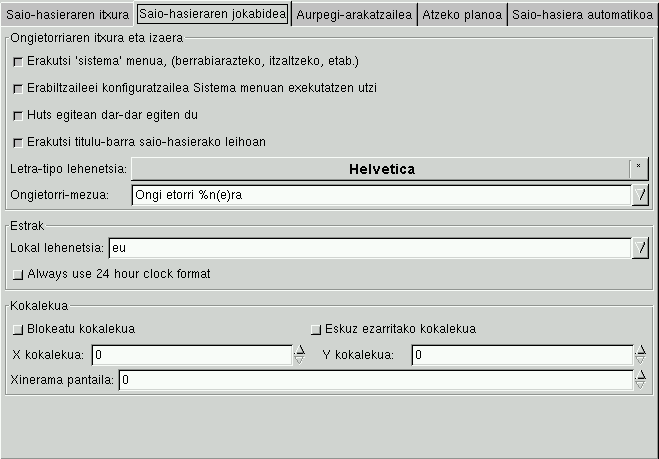
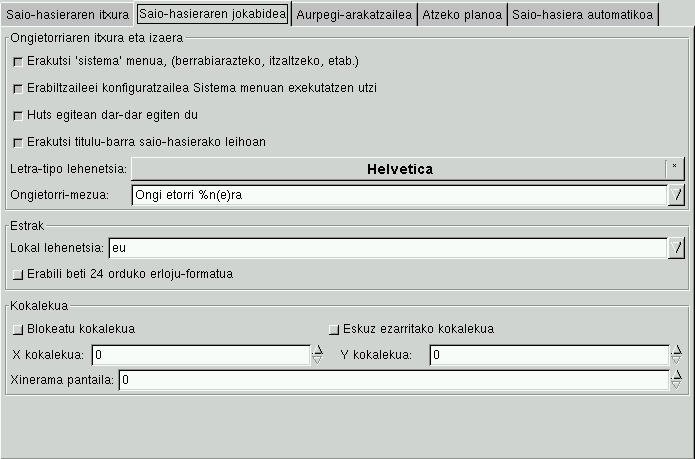
updated Basque screenshots and the language menu list

diff --git a/gui/gdmlanguages.c b/gui/gdmlanguages.c
@@ -37,6 +37,12 @@ struct _Language {
  * The available languages come from the supplied locale.alias */
 static Language languages [] = {
 	/*Note translate the A-M to the A-M you used in the group label */
+	{ N_("A-M|Azerbaidjani"), "az_AZ", 0 },
+	/*Note translate the A-M to the A-M you used in the group label */
+	{ N_("A-M|Basque"), "eu_ES", 0 },
+	/*Note translate the A-M to the A-M you used in the group label */
+	{ N_("A-M|Bulgarian"), "bg_BG", 0 },
+	/*Note translate the A-M to the A-M you used in the group label */
 	{ N_("A-M|Catalan"), "ca_ES", 0 },
 	/*Note translate the A-M to the A-M you used in the group label */
 	{ N_("A-M|Chinese (simplified)"), "zh_CN", 0 },
@@ -53,6 +59,8 @@ static Language languages [] = {
 	/*Note translate the A-M to the A-M you used in the group label */
 	{ N_("A-M|English"), "en", 0 },
 	/*Note translate the A-M to the A-M you used in the group label */
+	{ N_("A-M|Estonian"), "et_EE", 0 },
+	/*Note translate the A-M to the A-M you used in the group label */
 	{ N_("A-M|American English"), "en_US", 0 },
 	/*Note translate the A-M to the A-M you used in the group label */
 	{ N_("A-M|British English"), "en_GB", 0 },
@@ -67,7 +75,7 @@ static Language languages [] = {
 	/*Note translate the A-M to the A-M you used in the group label */
 	{ N_("A-M|Greek"), "el_GR", 0 },
 	/*Note translate the A-M to the A-M you used in the group label */
-	{ N_("A-M|Hebrew"), "iw_IL", 0 },
+	{ N_("A-M|Hebrew"), "he_IL", 0 },
 	/*Note translate the A-M to the A-M you used in the group label */
 	{ N_("A-M|Hungarian"), "hu_HU", 0 },
 	/*Note translate the A-M to the A-M you used in the group label */
@@ -78,6 +86,8 @@ static Language languages [] = {
 	{ N_("A-M|Japanese"), "ja_JP", 0 },
 	/*Note translate the A-M to the A-M you used in the group label */
 	{ N_("A-M|Korean"), "ko_KR", 0 },
+	/*Note translate the A-M to the A-M you used in the group label */
+	{ N_("A-M|Latvian"), "lv_LV", 0 },
 	/*Note translate the A-M to the A-M you used in the group label */
 	{ N_("A-M|Lithuanian"), "lt_LT", 0 },
 	/*Note translate the N-Z to the N-Z you used in the group label */
@@ -106,6 +116,8 @@ static Language languages [] = {
 	{ N_("N-Z|Turkish"), "tr_TR", 0 },
 	/*Note translate the N-Z to the N-Z you used in the group label */
 	{ N_("N-Z|Ukrainian"), "uk_UA", 0 },
+	/*Note translate the N-Z to the N-Z you used in the group label */
+	{ N_("N-Z|Walloon"), "wa_BE", 0 },
 	/* This is the POSIX/C locale for english, should really be in Other */
 	{ N_("Other|POSIX/C English"), "C", 0 },
 	{ NULL, NULL }
